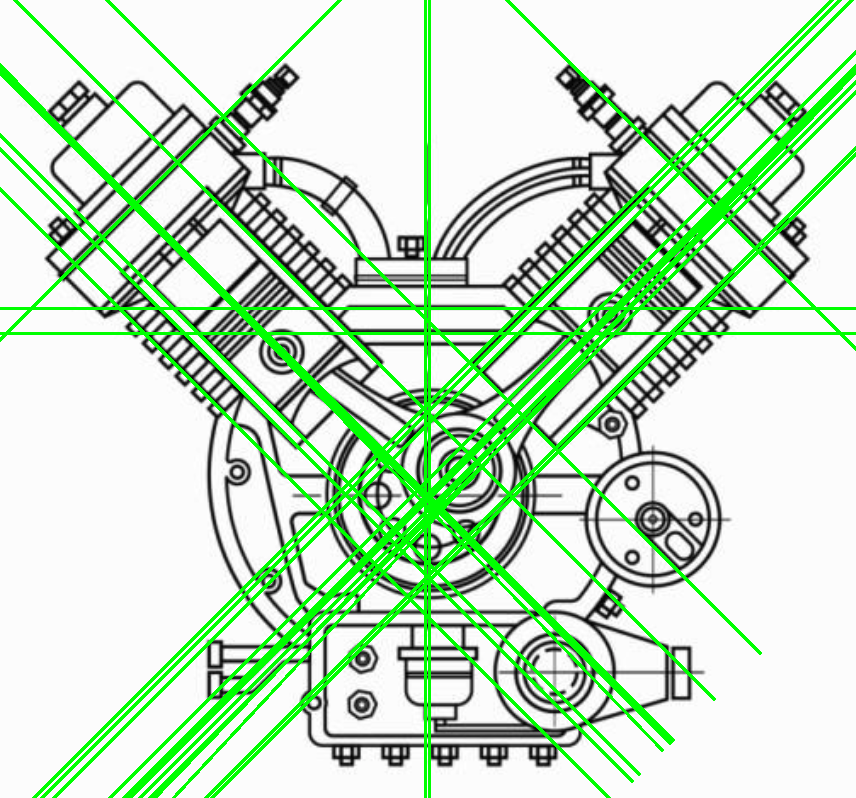
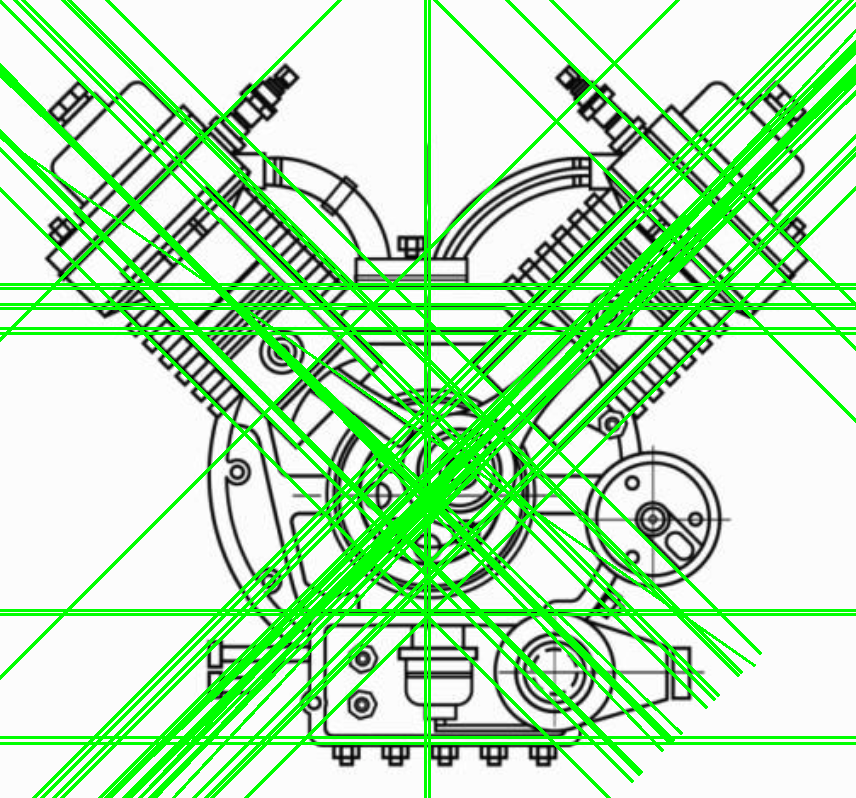
small changes

diff --git a/hough-lines.py b/hough-lines.py
@@ -18,7 +18,7 @@ edges = cv2.Canny(gray, 80, 150)
 # rho = 1 pixel resolution
 # theta = 1 degree resolution (π/180 radians)
 # threshold = minimum number of votes needed to consider something a line
-lines = cv2.HoughLines(edges, rho=1, theta=np.pi/180, threshold=260)
+lines = cv2.HoughLines(edges, rho=1, theta=np.pi/180, threshold=230)
 
 # 5) Draw the detected lines on a copy of the original image
 result = img.copy()
@@ -54,4 +54,5 @@ cv2.destroyAllWindows()
 
 # 7) Save the results
 # Save the result image to a file
+cv2.imwrite("engine_edges.png", edges)
 cv2.imwrite("engine_lines_overlay.png", result)
